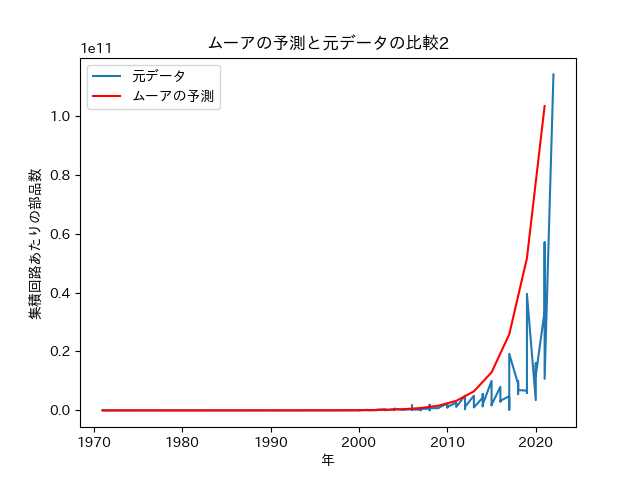
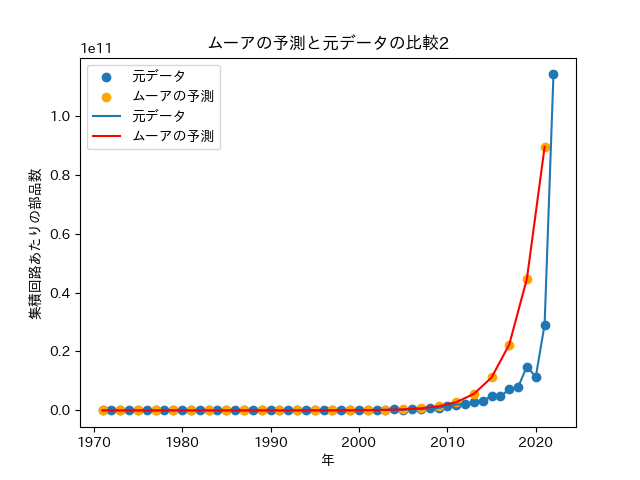
17_01を修正

Changed region(s): [[0.1562, 0.2188, 0.875, 0.875], [0.125, 0.1562, 0.3438, 0.3125], [0.8438, 0.125, 0.875, 0.1875]]

diff --git a/sec17/001_shiraishi_exe.py b/sec17/001_shiraishi_exe.py
@@ -29,8 +29,15 @@ data = pd.read_csv("Transistor_count.csv")
 # print(data.isnull().sum())
 # print(data.describe())
 
-x = data['year'].to_numpy().reshape(-1, 1)
-t = data["MOS_transistor_count"].to_numpy()
+"""
+年ごとの平均を取る(xとyを関数関係にする。xが決まればyが一意に決まる関係)
+"""
+
+mean_df = data.groupby(["year"]).mean()
+mean_df = mean_df.reset_index()
+
+x = mean_df['year'].to_numpy().reshape(-1, 1)
+t = mean_df["MOS_transistor_count"].to_numpy()
 # """（３）z = log10(y) として、x から z を予測する式を求めよ。"""
 z = np.log10(t) # 10を底とする常用対数を取る
 
@@ -72,17 +79,18 @@ print(f'決定係数 {r2_score(z[use_index], z_pred)*100}')
 original_a = model.coef_[0]
 
 # """（５）残差を残差プロットに表せ。（x, z の回帰で）"""
-display = PredictionErrorDisplay(y_true=z_use, y_pred=z_pred.flatten())
-display.plot()
-plt.title('残差プロット')
-plt.xlabel('年')
-plt.ylabel('残差')
-plt.savefig("residual_plot.png")
+# display = PredictionErrorDisplay(y_true=z_use, y_pred=z_pred.flatten())
+# display.plot()
+# plt.title('残差プロット')
+# plt.xlabel('年')
+# plt.ylabel('残差')
+# plt.savefig("residual_plot.png")
 
 # """（１）xy 平面にこのデータを散布図としてプロットせよ。"""
 # plt.scatter(x, t)
 # """（２）次に、縦軸を log10(y)（常用対数）としてプロットしてみよ。"""
 # plt.scatter(x_use, z_use)
+# plt.plot(x_use, z_use)
 
 # 最終結果
 # plt.plot(x, t)
@@ -93,7 +101,8 @@ plt.savefig("residual_plot.png")
 # plt.ylabel(' log10(t)（常用対数）')
 
 # plt.savefig('original_data.png')
-# plt.savefig('x_z_scatter.png')
+# plt.savefig('x_z_scatter2.png')
+# plt.savefig('x_z_plot.png')
 # plt.savefig('linear_pred.png')
 
 # """（７）この結果から、ムーアの法則（yは、2年ごとに2倍になる）は正しいといえるかどうかあなたの考えを述べなさい。"""
@@ -101,45 +110,42 @@ plt.savefig("residual_plot.png")
 """
 ムーアの予測どおりにトランジスタ数が増えた場合のデータを求め、元データと比較する
 """
-# t_start = t[0]
-# moore_list = []
-# for i in np.arange(min(x_use)[0], max(x_use)[0], 2):
-#     index = np.where(x_use == i)[0][0] # 2年ずつ増えたインデックス
-    
-#     if index == 0:
-#         moore_list.append([i, t_start])
-    
-#     else:
-#         # print(moore_list[len(moore_list) - 1][1] * 2)
-#         moore_list.append([i, moore_list[len(moore_list) - 1][1] * 2])
+t_start = t_use[0]
+moore_arr = np.empty((0, 2))
 
-# moore_list = np.array(moore_list)
-# moore_x = moore_list[:, 0].reshape(-1, 1)
-# moore_t = moore_list[:, 1]
+for i in np.arange(min(x_use)[0], max(x_use)[0], 2):
 
-# plt.scatter(x, t, label='元データ')
-# plt.scatter(moore_x, moore_t, color='orange', label="ムーアの予測")
+    if moore_arr.size == 0: # データが空なら
+        moore_arr = np.append(moore_arr, np.array([[i, t_start]]), axis=0)
+    else:
+        moore_arr = np.append(moore_arr, np.array([[i, moore_arr[moore_arr.shape[0] - 1, 1] * 2]]), axis=0)
 
-# moore_z = np.log10(moore_t) # 10を底とする常用対数を取る
-# model.fit(moore_x, moore_z)
-# model.predict(moore_x)
-# moore_pred = 10 ** (model.coef_[0] * moore_x + model.intercept_)
-# print(f'傾き: {model.coef_[0]}')
-# print(f'切片: {model.intercept_}')
-# moore_a = model.coef_[0]
+moore_x = moore_arr[:, 0].reshape(-1, 1)
+moore_t = moore_arr[:, 1]
 
-# plt.plot(x, t, label="元データ")
-# plt.plot(moore_x, moore_pred, color='red', label='ムーアの予測')
-# plt.legend()
-# # plt.title('ムーアの予測と元データの比較1')
-# plt.title('ムーアの予測と元データの比較2')
-# plt.xlabel('年')
-# plt.ylabel('集積回路あたりの部品数')
-# # plt.savefig('result_scatter.png')
-# plt.savefig('result_plot.png')
+plt.scatter(x, t, label='元データ')
+plt.scatter(moore_x, moore_t, color='orange', label="ムーアの予測")
 
-# print(f'オリジナルデータの傾き: {original_a}')
-# print(f'ムーアの予測の傾き: {moore_a}')
+moore_z = np.log10(moore_t) # 10を底とする常用対数を取る
+model.fit(moore_x, moore_z)
+model.predict(moore_x)
+moore_pred = 10 ** (model.coef_[0] * moore_x + model.intercept_)
+print(f'傾き: {model.coef_[0]}')
+print(f'切片: {model.intercept_}')
+moore_a = model.coef_[0]
+
+plt.plot(x, t, label="元データ")
+plt.plot(moore_x, moore_pred, color='red', label='ムーアの予測')
+plt.legend()
+# plt.title('ムーアの予測と元データの比較1')
+plt.title('ムーアの予測と元データの比較2')
+plt.xlabel('年')
+plt.ylabel('集積回路あたりの部品数')
+# plt.savefig('result_scatter.png')
+plt.savefig('result_plot.png')
+
+print(f'オリジナルデータの傾き: {original_a}')
+print(f'ムーアの予測の傾き: {moore_a}')
 
 """
 ムーアの予測によって求めた指数の傾き0.150と元データから求めた指数の傾き0.146はだいたい同じくらいなのでムーアの予測は正しいと言って良いと考える

diff --git a/sec17/sample2.py b/sec17/sample2.py
@@ -1,0 +1,37 @@
+import numpy as np
+import matplotlib.pyplot as plt
+
+# パラメータ設定
+A = 1
+B = 0
+
+# x の範囲
+x = np.linspace(-2, 2, 400)
+
+# 関数の定義
+y1 = 10**(A * x + B)
+log_y1 = np.log10(y1)
+
+y2 = 10**(-A * x + B) + 65.0
+log_y2 = np.log10(y2)
+
+# グラフのプロット
+plt.figure(figsize=(10, 6))
+
+# 1. log10(y) = A * x + B のプロット
+plt.plot(x, log_y1, label=r'$\log_{10}(y) = A \cdot x + B$', color='blue')
+
+# 2. log10(y) = log10(10^(-A * x + B) + 65.0) のプロット
+plt.plot(x, log_y2, label=r'$\log_{10}(y) = \log_{10}(10^{-A \cdot x + B} + 65.0)$', color='red')
+
+# グラフの設定
+plt.axhline(0, color='black',linewidth=0.5)
+plt.axvline(0, color='black',linewidth=0.5)
+plt.grid(color = 'gray', linestyle = '--', linewidth = 0.5)
+
+plt.legend()
+plt.xlabel('x')
+plt.ylabel(r'$\log_{10}(y)$')
+plt.title(r'Comparison of $\log_{10}(y) = A \cdot x + B$ and $\log_{10}(y) = \log_{10}(10^{-A \cdot x + B} + 65.0)$')
+
+plt.show()

diff --git a/sec17/002_shiraishi_exe.py b/sec17/002_shiraishi_exe.py
@@ -23,7 +23,6 @@ y_pred = 10 ** (z_pred)
 # display.plot()
 # plt.savefig('002_residual_plot.png')
 
-
 P = 300
 """
 ① 300 = 10 ** (model.coef_[0] * x + model.intercept_)
@@ -40,12 +39,13 @@ print(f'パラメータB {model.intercept_}')
 print(f'決定係数 {r2_score(z, z_pred)}')
 print(f'血中成分が{P}になるのは接種後{round(x300_pred * 2) / 2}時間後')
 
-plt.scatter(x, y)
+plt.scatter(x, z)
 # plt.scatter(x, z)
-plt.plot(x, y_pred, c='red')
+# plt.plot(x, y_pred, c='red')
 plt.title('血中成分量')
 # plt.title('血中成分量の常用対数')
 plt.xlabel('時間')
 plt.ylabel('血中成分')
 # plt.savefig('002_original.png')
 # plt.savefig('002_result.png')
+plt.savefig('test2.png')

diff --git a/sec17/test.py b/sec17/test.py
@@ -1,0 +1,4 @@
+import numpy as np
+import pandas as pd
+
+print(np.array([[1, 2]]).size)
